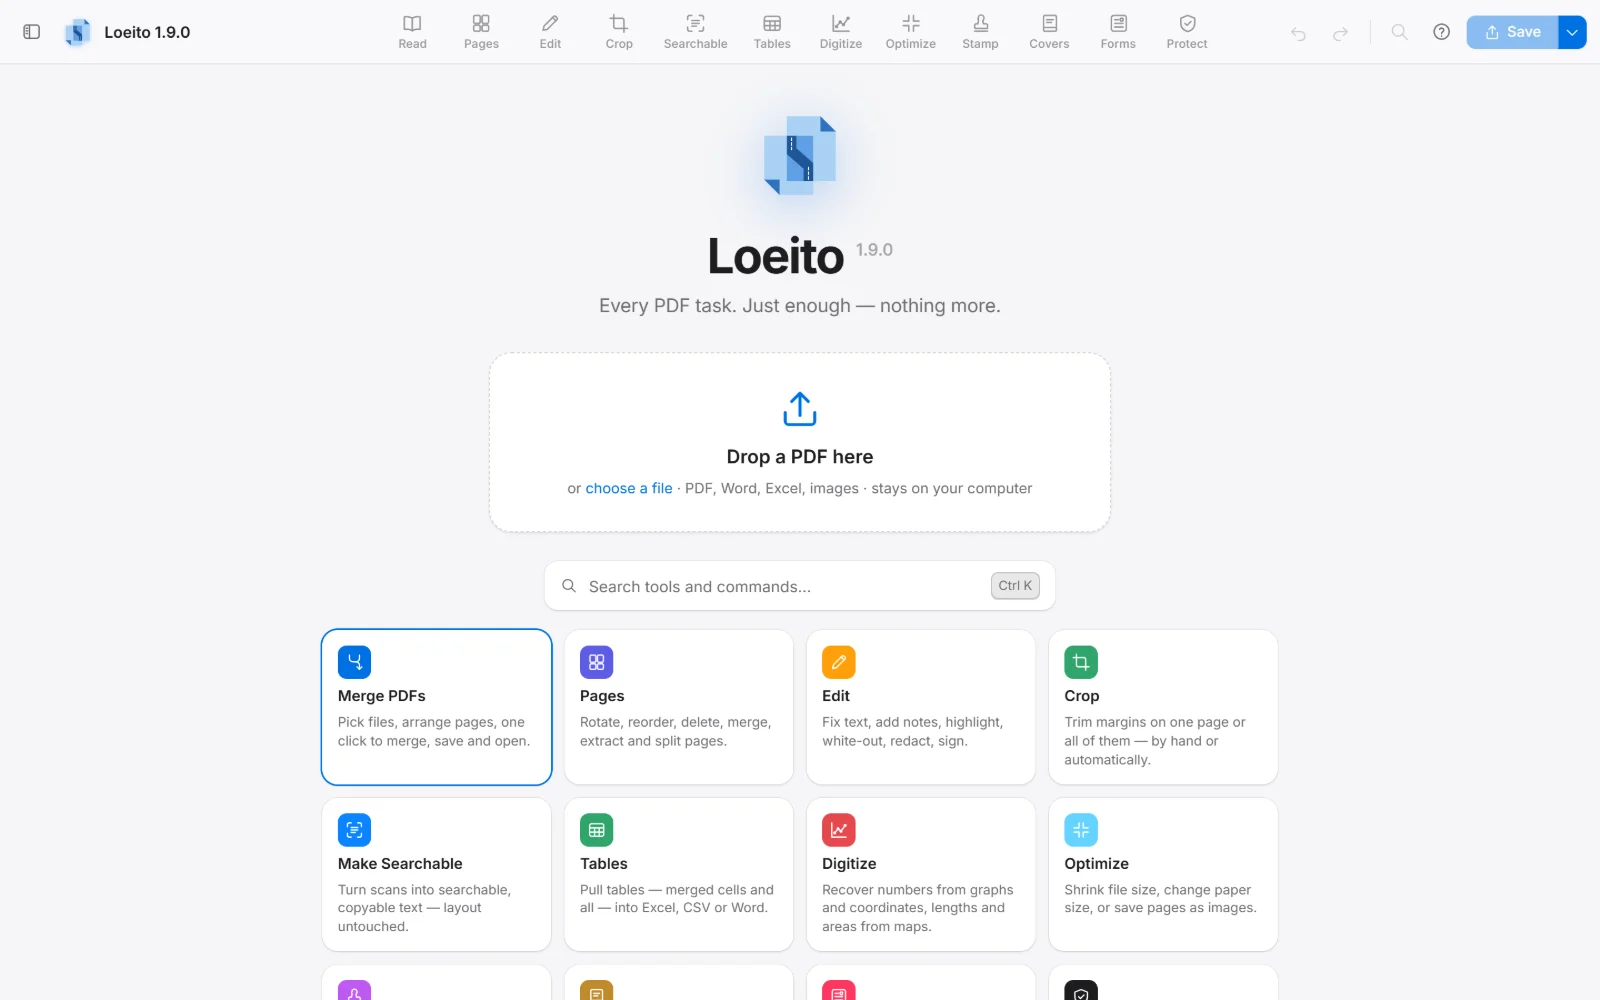
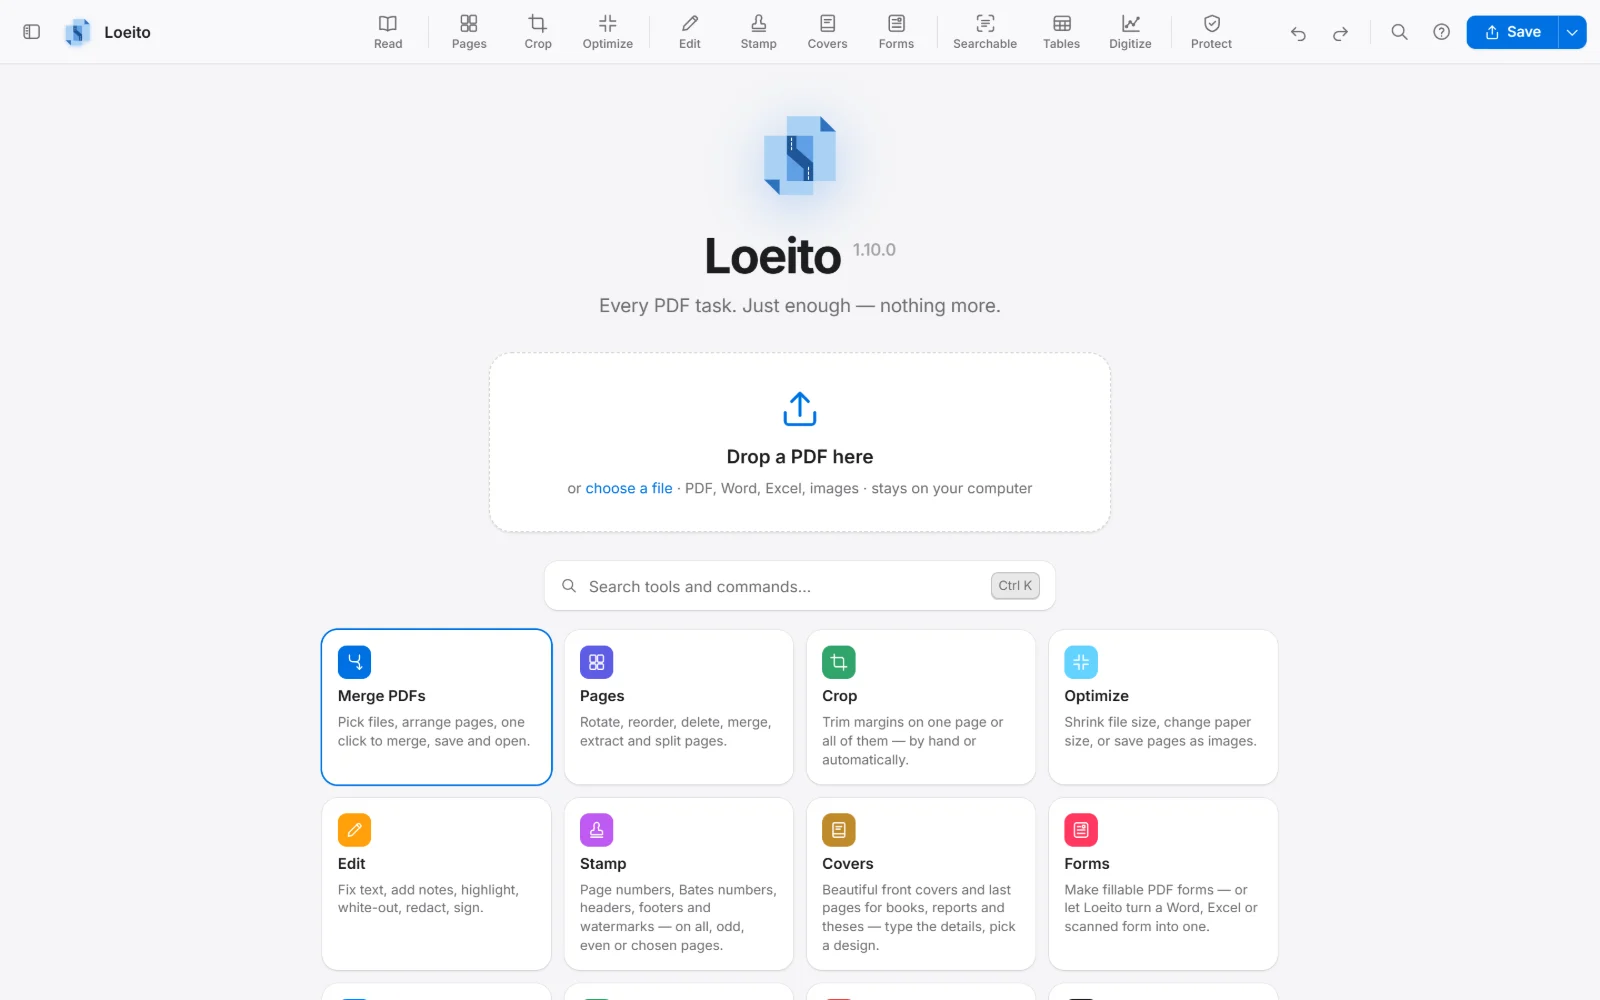
Rename by content, freeze fix, SourceForge kit kept private

diff --git a/js/name.js b/js/name.js
@@ -63,7 +63,7 @@
   L.suggestNames = async () => {
     const s = L.state, out = [], seen = new Set();
     const add = (name, why) => { name = L.safeName(name); const k = name.toLowerCase(); if (name.length > 2 && !seen.has(k)) { seen.add(k); out.push({ name, why }); } };
-    const firstSrc = Object.values(s.sources)[0];
+    const firstSrc = (s.pages[0] && s.sources[s.pages[0].src]) || Object.values(s.sources)[0]; // this document's own file (sources are shared by all tabs)
     let info = {};
     try { info = (await firstSrc.doc.getMetadata()).info || {}; } catch {}
     // headline: the largest text on page 1 (PDF text or OCR)
@@ -122,6 +122,51 @@
     if (m.title && !m.displayTitle) out.push({ level: 'info', text: 'Viewers show the file name in their title bar — they can show the title instead.', fix: x => { x.displayTitle = true; } });
     return out;
   }
+  // Rename by content: Loeito reads each open document (or the ones just picked) and suggests a clear name.
+  L.renameByContent = async (docs = L.docs) => {
+    docs = [...docs].filter(d => d && d.state && d.state.pages.length); // a copy: switching tabs reorders L.docs
+    if (!docs.length) return L.toast('Open one or more PDFs first, then choose Rename by content (Ctrl K).', { icon: 'info' });
+    const t = L.task('Reading the documents for good names', { cancelable: false });
+    const rows = [], here = L.doc;
+    try {
+      for (const [i, d] of docs.entries()) {
+        t.set(i / docs.length, d.state.name);
+        let sugg = [];
+        try { if (L.doc !== d) await L.switchDoc(d); sugg = await L.suggestNames(); } catch {}
+        rows.push({ d, from: d.state.name, sugg: sugg.map(x => x.name), name: sugg[0]?.name || d.state.name, on: !!sugg.length });
+      }
+    } finally { t.done(); if (here && L.doc !== here && L.docs.includes(here)) await L.switchDoc(here); }
+    // two documents with the same best name get “(2)”, “(3)”… so nothing clashes
+    const used = new Map(); for (const r of rows) { const k = r.name.toLowerCase(), n = (used.get(k) || 0) + 1; used.set(k, n); if (n > 1) r.name = `${r.name} (${n})`; }
+    const onDisk = L.fs.on() && rows.some(r => r.d.origin?.path);
+    const list = h('div', { class: 'rn-list' }, rows.map(r => {
+      const inp = h('input', { class: 'input rn-name', value: r.name, 'aria-label': `New name for ${r.from}`, oninput: e => { r.name = e.target.value; r.on = true; box.checked = true; } });
+      const box = h('input', { type: 'checkbox', checked: r.on, 'aria-label': `Rename ${r.from}`, onchange: e => { r.on = e.target.checked; } });
+      const chips = h('div', { class: 'rn-chips' }, r.sugg.slice(1, 4).map(n => h('button', { class: 'chip', type: 'button', title: 'Use this name', onclick: () => { inp.value = r.name = n; r.on = box.checked = true; } }, n)));
+      return h('div', { class: 'rn-row' }, box, h('div', { class: 'rn-main' }, h('small', { class: 'muted' }, r.from + (r.d.origin?.path ? '.pdf' : '')), inp, r.sugg.length > 1 ? chips : null,
+        r.sugg.length ? null : h('small', { class: 'muted' }, 'No text found to suggest from. Make it searchable first, or type a name.')));
+    }));
+    const ok = await L.dialog({ title: `Rename by content · ${rows.length} document${rows.length === 1 ? '' : 's'}`, wide: true, body: list,
+      text: onDisk ? 'Loeito read each document and suggests a clear, findable name. Change any of them, then rename the files in their folders.' : 'Loeito read each document and suggests a clear name. The new names are used for the tabs and when you save.',
+      actions: [{ label: 'Cancel', value: false }, { label: onDisk ? 'Rename files' : 'Use these names', primary: true, value: true }] });
+    if (!ok) return;
+    let done = 0; const problems = [];
+    for (const r of rows.filter(r => r.on)) {
+      const name = L.safeName(r.name.trim()); if (!name || name === r.from) continue;
+      const p = r.d.origin?.path;
+      if (p && L.fs.on()) {
+        const out = await L.fs.rename(p, name).catch(e => ({ error: e.message }));
+        if (out.error) { problems.push(`${r.from}: ${out.error}`); continue; }
+        L.files.forget(p); L.files.remember(out.path);
+        r.d.origin = { ...r.d.origin, path: out.path, name: L.path.base(out.path) };
+      }
+      r.d.state.name = name; done++;
+    }
+    L.emit('docs');
+    if (problems.length) L.toast(`Renamed ${done}. Not renamed: ${problems.join(' · ')}`, { kind: 'err', ms: 12000 });
+    else if (done) L.toast(onDisk ? `Renamed ${done} file${done === 1 ? '' : 's'}` : `${done} new name${done === 1 ? '' : 's'} ready for saving`, { kind: 'ok', icon: 'sparkles' });
+  };
+
   L.openNameSheet = async () => {
     if (!L.hasDoc()) return;
     const s = L.state, m = { creator: '', lang: '', created: null, custom: [], displayTitle: false, ...s.meta, custom: [...(s.meta.custom || [])] };

diff --git a/js/app.js b/js/app.js
@@ -74,7 +74,7 @@
     }
     // Several images dropped together become one document; PDFs each get a tab.
     const groups = loaded.every(x => !x.pdfDoc) && loaded.length > 1 ? [loaded] : loaded.map(x => [x]);
-    let last = null;
+    let last = null; const groupsDocs = [];
     for (const g of groups) {
       const doc = L.newDoc(), s = doc.state;
       s.pages = g.flatMap(x => x.pages);
@@ -84,14 +84,15 @@
       await L.proxy(s.pages[0]);
       // where it came from — what Save writes back to (a converted Office file is never overwritten with a PDF)
       if (g.length === 1 && L.files) doc.origin = L.files.originOf(g[0].file, g[0].office ? 'converted' : isImg(g[0].file) ? 'image' : 'pdf');
-      L.docs.push(doc); last = doc;
+      L.docs.push(doc); last = doc; groupsDocs.push(doc);
       setTimeout(() => L.emit('opened', doc), 400);
       if (g[0].formFields) L.toast(`This PDF is a fillable form — ${g[0].formFields} fields. Fill it in or change it in Forms.`, { icon: 'form', ms: 7000, action: { label: 'Open Forms', fn: () => { L.switchDoc(doc); L.setBlade('forms'); } } });
       if (g[0].office) L.toast(`Converted “${g[0].file.name}” with Microsoft Office. Turn its blanks into fillable fields?`, { icon: 'form', ms: 9000, action: { label: 'Find fields', fn: () => { L.switchDoc(doc); L.setBlade('forms'); L.formsUI.detectNow(); } } });
     }
     document.body.classList.add('has-doc');
     L.switchDoc(last);
-    if (pendingBlade) { L.setBlade(pendingBlade); pendingBlade = null; }
+    if (typeof pendingBlade === 'function') { const fn = pendingBlade; pendingBlade = null; fn(groupsDocs); }
+    else if (pendingBlade) { L.setBlade(pendingBlade); pendingBlade = null; }
     if (groups.length > 1) L.toast(`Opened ${groups.length} documents in tabs`, { kind: 'ok' });
   };
   L.pickFiles = (append = false) => L.files.open({ append: append && L.hasDoc() });
@@ -167,10 +168,10 @@
       grid.append(h('button', { class: 'bcard', style: { border: 0, font: 'inherit', textAlign: 'left' }, onclick: () => { pendingBlade = b.id; L.pickFiles(false); } },
         h('span', { class: 'bi', style: { background: b.color } }, L.icon(b.icon)), h('b', null, b.label === 'Searchable' ? 'Make Searchable' : b.label), h('span', null, b.desc)));
     }
-    grid.append(h('button', { class: 'bcard', style: { border: 0, font: 'inherit', textAlign: 'left' }, onclick: () => { pendingBlade = 'view'; L.pickFiles(false); } },
-      h('span', { class: 'bi', style: { background: '#ff375f' } }, L.icon('sparkles')), h('b', null, 'Smart Name'), h('span', null, 'Suggests a clear, findable file name from the content.')));
+    grid.append(h('button', { class: 'bcard', style: { border: 0, font: 'inherit', textAlign: 'left' }, onclick: () => { pendingBlade = docs => L.renameByContent(docs); L.pickFiles(false); } },
+      h('span', { class: 'bi', style: { background: '#ff375f' } }, L.icon('sparkles')), h('b', null, 'Rename by content'), h('span', null, 'Pick one or many PDFs. Loeito reads each and suggests a clear, findable name, then renames them in one go.')));
     grid.append(h('button', { class: 'bcard', style: { border: 0, font: 'inherit', textAlign: 'left' }, onclick: () => L.openFormTemplates() },
-      h('span', { class: 'bi', style: { background: '#30a46c' } }, L.icon('template')), h('b', null, 'Form templates'), h('span', null, 'Ten ready forms — registration, invoice, leave, survey… Make one your own.')));
+      h('span', { class: 'bi', style: { background: '#30a46c' } }, L.icon('template')), h('b', null, 'New form from a template'), h('span', null, 'No file needed. Ten ready forms — registration, invoice, leave, survey… Make one your own.')));
   }
   // Recently opened files (needs the local server to reopen them by path).
   function paintRecent() {

diff --git a/desktop/server.js b/desktop/server.js
@@ -74,6 +74,14 @@ function create({ root, getPath, reveal, ocrDir }) {
       }
       if (r === '/api/fs/read') { const p = path.resolve(q.path || ''); if (!OPEN.has(path.extname(p).toLowerCase())) return json(res, { error: 'Loeito opens PDFs, pictures and Office files. Save other kinds as PDF first.' }, 415); return send(res, 200, fs.readFileSync(p), 'application/octet-stream'); }
       if (r === '/api/fs/mkdir') { const name = (q.name || '').trim(); if (!name || BAD.test(name)) return json(res, { error: 'A folder name can’t contain \\ / : * ? " < > |' }, 400); const t = path.join(path.resolve(q.path), name); if (fs.existsSync(t)) return json(res, { error: `“${name}” already exists here` }, 409); fs.mkdirSync(t); return json(res, { path: t }); }
+      if (r === '/api/fs/rename') {
+        const from = path.resolve(q.path || ''), name = (q.name || '').trim().replace(/\.+$/, '');
+        if (!name || BAD.test(name)) return json(res, { error: 'A name can’t contain \\ / : * ? " < > |. Remove those characters and try again.' }, 400);
+        const to = path.join(path.dirname(from), name + path.extname(from));
+        if (!fs.existsSync(from)) return json(res, { error: 'That file has moved or was renamed. Open it again, then rename it.' }, 404);
+        if (to.toLowerCase() !== from.toLowerCase() && fs.existsSync(to)) return json(res, { error: `“${path.basename(to)}” already exists there. Choose another name.`, exists: true }, 409);
+        fs.renameSync(from, to); return json(res, { path: to });
+      }
       if (r === '/api/fs/write') {
         const p = path.resolve(q.path || ''), name = path.basename(p);
         if (!SAVE.has(path.extname(name).toLowerCase())) return json(res, { error: 'Loeito can’t save that kind of file. Choose PDF, a picture, or a table format.' }, 415);

diff --git a/css/loeito.css b/css/loeito.css
@@ -998,3 +998,12 @@ body.full-window #sidebar, body.full-window #tabbar { display: none !important; 
 
 /* toolbar families (1.10) */
 .blade-sep { flex: none; width: 1px; align-self: stretch; margin: 8px 4px; background: var(--sep); }
+
+/* Rename by content (1.10.1) */
+.rn-list { display: flex; flex-direction: column; gap: 10px; max-height: 56vh; overflow: auto; }
+.rn-row { display: grid; grid-template-columns: 20px 1fr; gap: 10px; align-items: start; padding: 10px 12px; border: 1px solid var(--sep); border-radius: 10px; background: var(--surface); }
+.rn-row input[type=checkbox] { margin-top: 26px; }
+.rn-main { display: flex; flex-direction: column; gap: 6px; min-width: 0; }
+.rn-main small { overflow: hidden; text-overflow: ellipsis; white-space: nowrap; }
+.rn-name { font-weight: 600; }
+.rn-chips { display: flex; flex-wrap: wrap; gap: 6px; }

diff --git a/js/palette.js b/js/palette.js
@@ -13,6 +13,7 @@
       { t: 'Merge PDFs', i: 'merge', f: () => L.openMerge(L.hasDoc() ? { withCurrent: true } : undefined) },
       { t: 'Change the last merge (merge again)', i: 'merge', f: () => L.reopenMerge() },
       { t: 'Document properties & metadata', i: 'tag', f: need(() => L.openNameSheet()) },
+      { t: 'Rename by content (all open documents)', i: 'sparkles', f: need(() => L.renameByContent()) },
       { t: 'Password-protect or unlock', i: 'shield', f: need(() => L.setBlade('protect')) },
       { t: 'Find in document', k: 'Ctrl F', i: 'search', f: need(() => L.openSearch()) },
       { t: 'Rotate page right', k: 'Ctrl R', i: 'rotr', f: need(() => L.rotateSelected(90)) },

diff --git a/js/files.js b/js/files.js
@@ -23,6 +23,7 @@
     mkdir: (path, name) => api('mkdir?' + qs({ path, name }), { method: 'POST' }).then(r => r.json()),
     read: async path => new Uint8Array(await (await api('read?' + qs({ path }))).arrayBuffer()),
     write: (path, data, overwrite = false) => api('write?' + qs({ path, overwrite: overwrite ? 1 : 0 }), { method: 'POST', body: data instanceof Blob ? data : new Blob([data]) }).then(r => r.json()),
+    rename: (path, name) => api('rename?' + qs({ path, name }), { method: 'POST' }).then(r => r.json()),
     reveal: path => api('reveal?' + qs({ path }), { method: 'POST' }).catch(e => L.error('Couldn’t show it in its folder', e)),
   });
 

diff --git a/js/reader.js b/js/reader.js
@@ -60,6 +60,8 @@
   function pump() {
     if (!R.on) return;
     const mid = root().getBoundingClientRect().top + root().clientHeight / 2;
+    // only pages of this document that are still on screen: after a tab switch the old ones would loop forever
+    for (const el of near) if (!el.isConnected || !pageOf(el)) near.delete(el);
     const todo = [...near].filter(el => el.dataset.key !== keyFor(el)).sort((a, b) => Math.abs(a.getBoundingClientRect().top - mid) - Math.abs(b.getBoundingClientRect().top - mid));
     while (busy < 2 && todo.length) { const el = todo.shift(); busy++; renderPage(el).finally(() => { busy--; pump(); }); }
   }

diff --git a/loeito_server.py b/loeito_server.py
@@ -222,6 +222,8 @@ class Handler(http.server.SimpleHTTPRequestHandler):
                 return self._mkdir()
             if route == '/api/fs/write':
                 return self._write()
+            if route == '/api/fs/rename':
+                return self._rename()
             if route == '/api/fs/reveal':
                 return self._reveal()
             if route in ('/api/pdf/encrypt', '/api/pdf/decrypt'):
@@ -280,6 +282,20 @@ class Handler(http.server.SimpleHTTPRequestHandler):
             return self._json({'error': f'“{name}” already exists here'}, 409)
         os.mkdir(target)
         return self._json({'path': target})
+
+    def _rename(self):
+        q = self._query()
+        src = os.path.abspath(q.get('path', ''))
+        name = q.get('name', '').strip().rstrip('.')
+        if not name or BAD_NAME & set(name):
+            return self._json({'error': 'A name can’t contain \\ / : * ? " < > |. Remove those characters and try again.'}, 400)
+        if not os.path.isfile(src):
+            return self._json({'error': 'That file has moved or was renamed. Open it again, then rename it.'}, 404)
+        dst = os.path.join(os.path.dirname(src), name + os.path.splitext(src)[1])
+        if os.path.normcase(dst) != os.path.normcase(src) and os.path.exists(dst):
+            return self._json({'error': f'“{os.path.basename(dst)}” already exists there. Choose another name.', 'exists': True}, 409)
+        os.replace(src, dst)
+        return self._json({'path': dst})
 
     def _write(self):
         q = self._query()

diff --git a/CHANGELOG.md b/CHANGELOG.md
@@ -5,6 +5,7 @@ All notable changes to Loeito, newest first. Every release is on the GitHub Rele
 ## 1.10.0 — 2026-11-26
 
 ### Added
+- **Rename by content** (start screen, Ctrl K): pick one or many PDFs; Loeito reads each, suggests a clear name and renames the files in their folders in one go. It replaces the Smart Name card, which only opened the file.
 - **Print** (Ctrl P, the Save menu or Ctrl K): prints the document as it is now, with every edit, form and stamp.
 - **Rulers and guides** (Ctrl Alt R or the View menu): millimeters, centimeters, inches or points; drag a guide out of a ruler, move it, drag it back to remove it.
 - **Change the merge:** after Merge & Open, bring the same files and order back, fix something and merge again; the earlier result is replaced.
@@ -22,6 +23,8 @@ All notable changes to Loeito, newest first. Every release is on the GitHub Rele
 
 ### Fixed
 - The file window list could not scroll and froze on the Down key in large folders.
+- Switching between documents while pages were still loading could freeze the window.
+- Name suggestions with several documents open could come from another tab’s file.
 - Suggested names no longer carry leftovers such as “(1) (1)” or “+ 0 more”.
 
 ## 1.9.0 — 2026-11-08

diff --git a/docs/User Manual.md b/docs/User Manual.md
@@ -367,7 +367,8 @@ It also lists the largest images (pixels, compression, color) and the embedded f
   3. Trace points, lines and areas.
   4. Export to Shapefile, GeoJSON, KML, GPX, DXF, CSV/WKT or Delft3D (.ldb land boundary, .pol, .pli, .xyz, .xyn).
 - **Make Searchable:** OCR in English and other Latin-script languages; Urdu and Arabic are recognized for copying.
-- **Smart Name:** click the document name for name suggestions and the details stored in the PDF.
+- **Name suggestions:** click the document name for suggestions and the details stored in the PDF.
+- **Rename by content:** on the start screen (or Ctrl K → Rename by content), pick one or many PDFs. Loeito reads each, suggests a clear name (you can change it or pick another), and renames the files in their folders in one go. It never overwrites another file; two documents with the same name get “(2)”.
 
 ## Keyboard shortcuts
 

diff --git a/docs/Reference Manual.md b/docs/Reference Manual.md
@@ -40,7 +40,7 @@ All of them run in the page. An optional local Python server adds the file API a
 | `js/formdetect.js` | Finds blanks in flat PDFs and scans |
 | `js/formtemplates.js` | **Ten form templates** + layout engine (`L.formTemplatePdf`, `L.createFromTemplate`, `L.openFormTemplates`) |
 | `js/blades/*.js` | One file per tool: view (Read), pages, edit, crop, ocr (Searchable), tables, digitize, compress (Optimize), stamp, **covers**, forms, **protect** |
-| `js/name.js` | Smart Name and document details |
+| `js/name.js` | Name suggestions, Rename by content (many files at once) and document details |
 | `js/app.js` | Opening files (records each tab’s `origin`), toolbar, welcome (Recent, Form templates), keyboard, drag & drop (file handles) |
 | `loeito_server.py` | Local server (stdlib): static files, Office conversion, file API |
 | `tools/convert.ps1` | Office COM export to PDF |

diff --git a/docs/Help.md b/docs/Help.md
@@ -48,6 +48,10 @@ A **check** points out what's missing or untidy and fixes it with one click.
 
 **How it works:** Loeito's own file window lists folders with a preview of the first page. Click a column title to sort by name, date, type or size; type a name to jump to it. Without the desktop app, your browser's window is used.
 
+## Rename by content
+
+On the start screen, **Rename by content** asks for one or many PDFs, reads each and suggests a clear name such as “Water Quality Report 2026” instead of “scan_0012 (1)”. Change any name, untick the ones to leave, then **Rename files**. Also in Ctrl K for the documents already open.
+
 ## Print
 
 **Ctrl P** (or the Save menu, or Ctrl K → Print) prints the document as it is now, with every edit, form and stamp, through your computer's print window.
